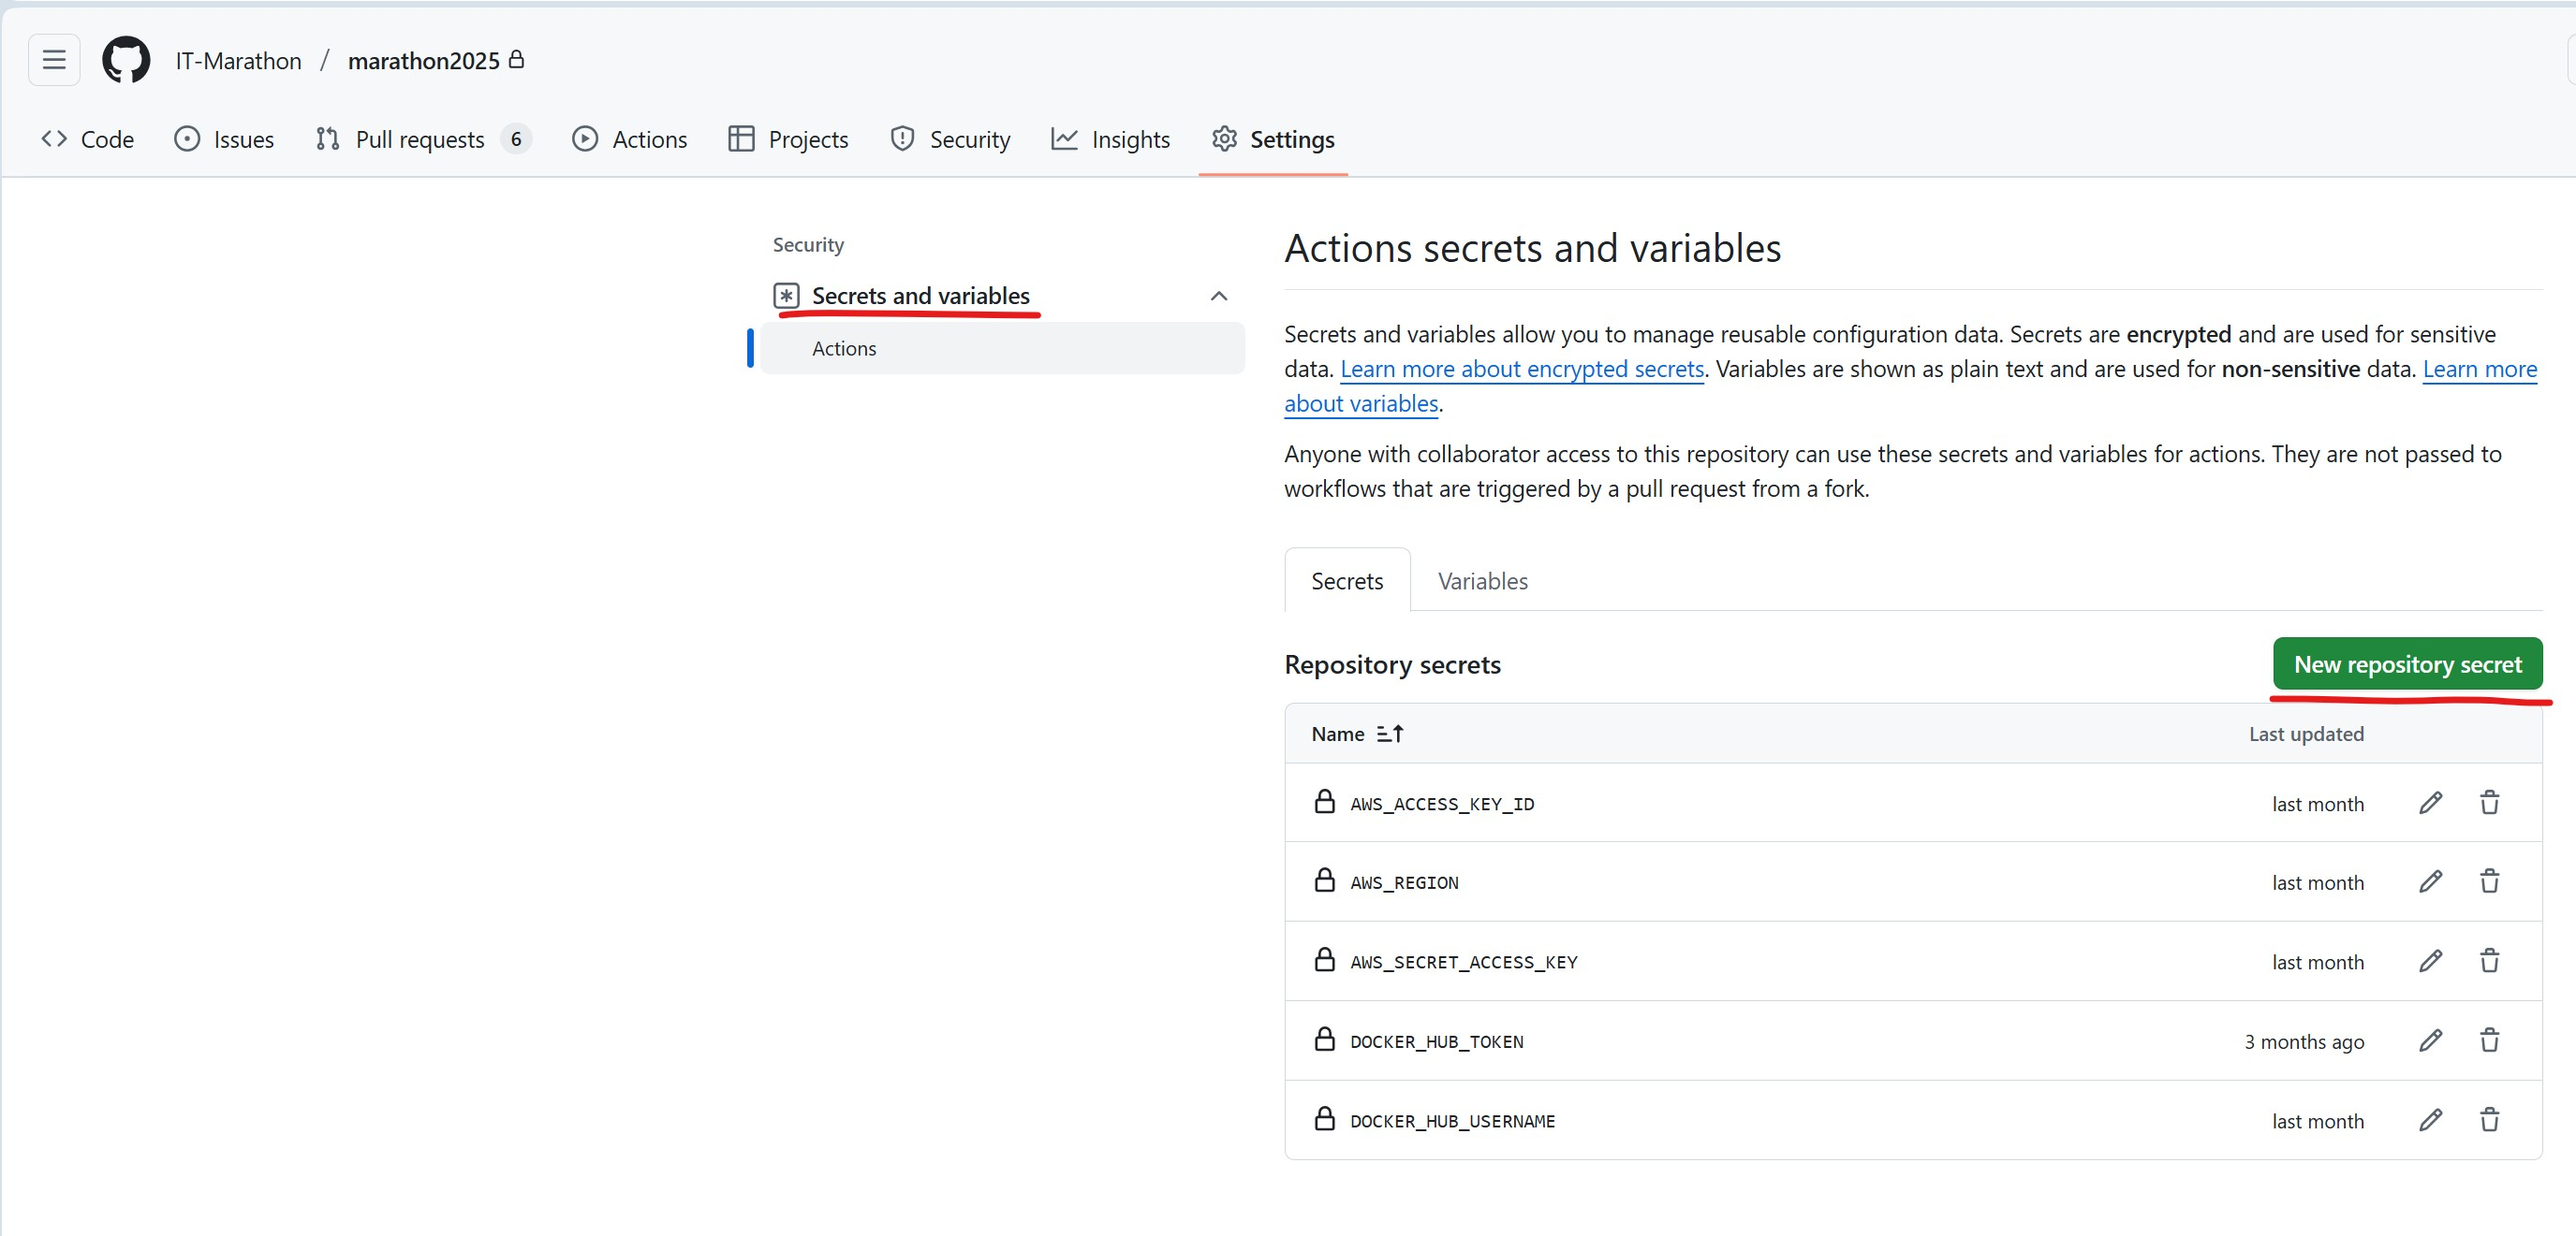
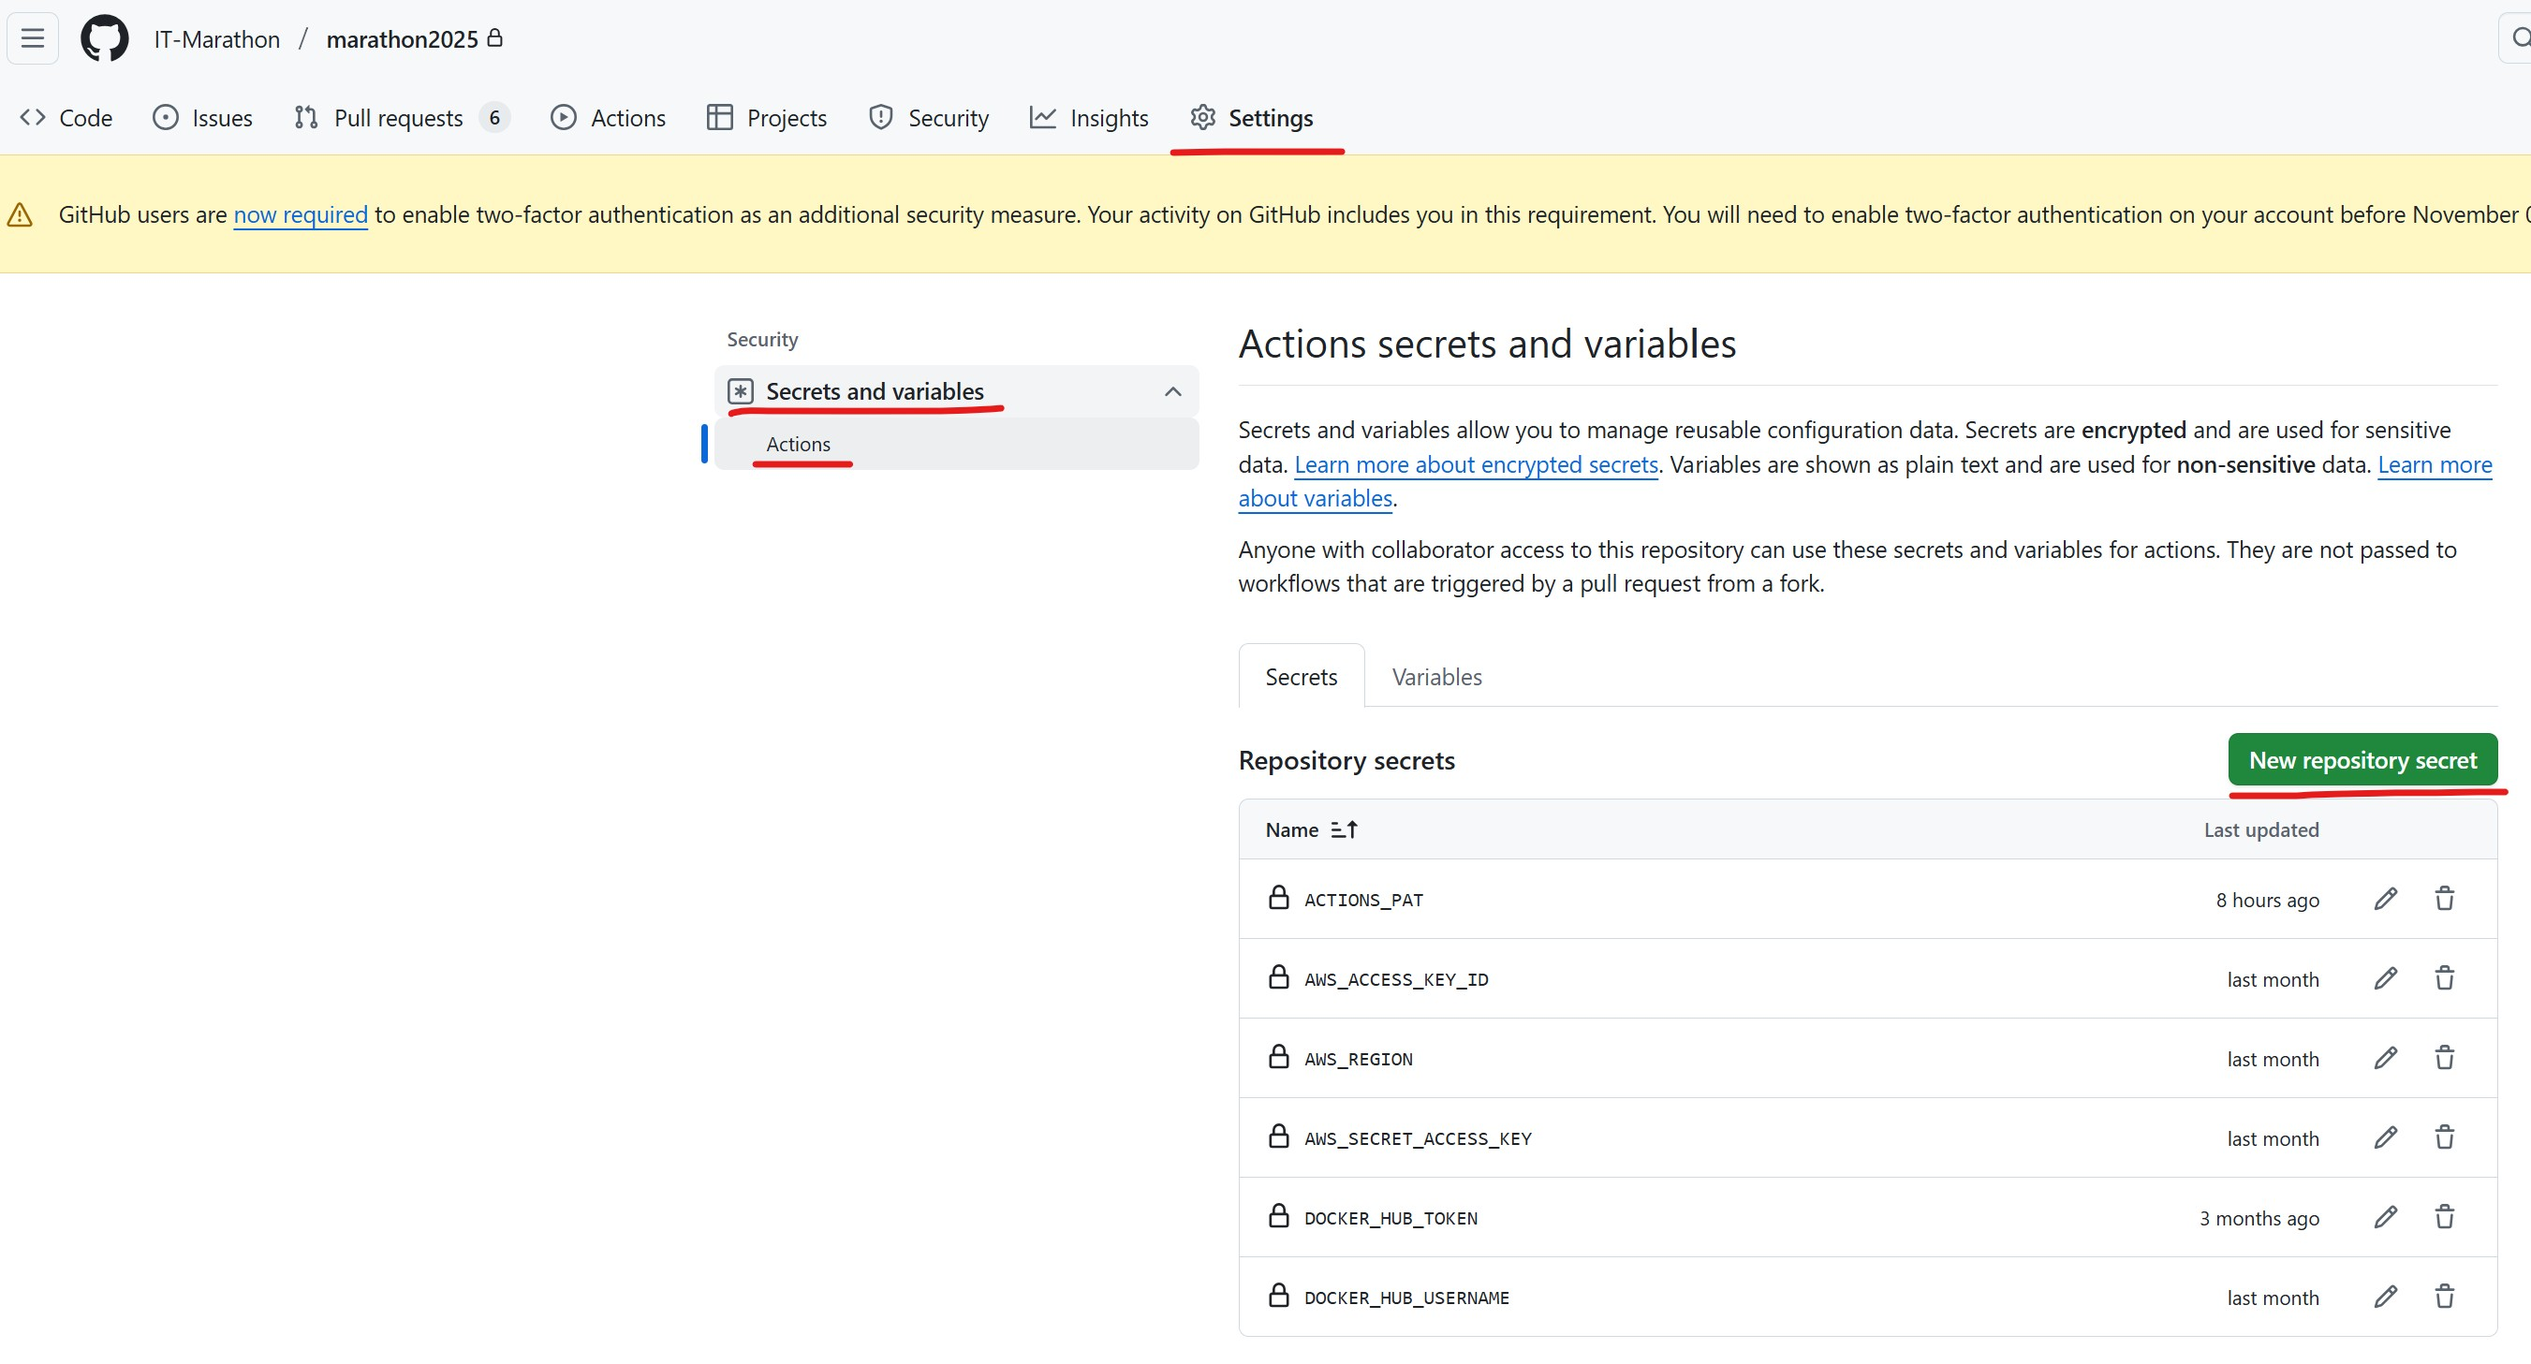
[Devops] EPMRDUAITM: Change commit name in release pipeline (#235)
* fix release commit name

* fix picsec.jpg

---------

diff --git a/docs/terraform-readme.md b/docs/terraform-readme.md
@@ -73,6 +73,7 @@ To securely store sensitive credentials (like AWS keys) for GitHub Actions, add 
 | AWS_SECRET_ACCESS_KEY | AWS IAM secret access key for authentication (from CSV). |
 | DOCKER_HUB_TOKEN      | Personal access token for Docker Hub authentication. |
 | DOCKER_HUB_USERNAME   | Docker Hub username for pushing/pulling images. |
+| ACTIONS_PAT   | GitHub Personal Access Token. |
 
 ![picsec](assets/terraform-readme/picsec.jpg)
 
